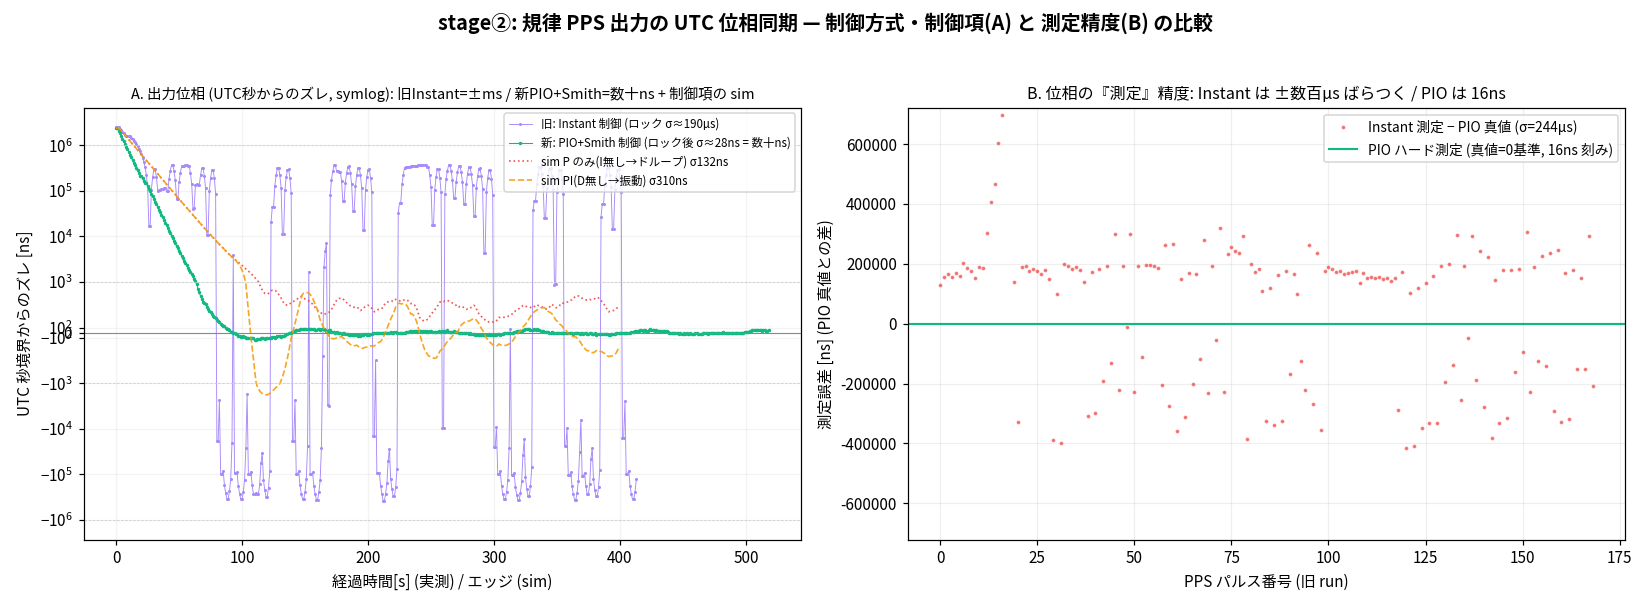
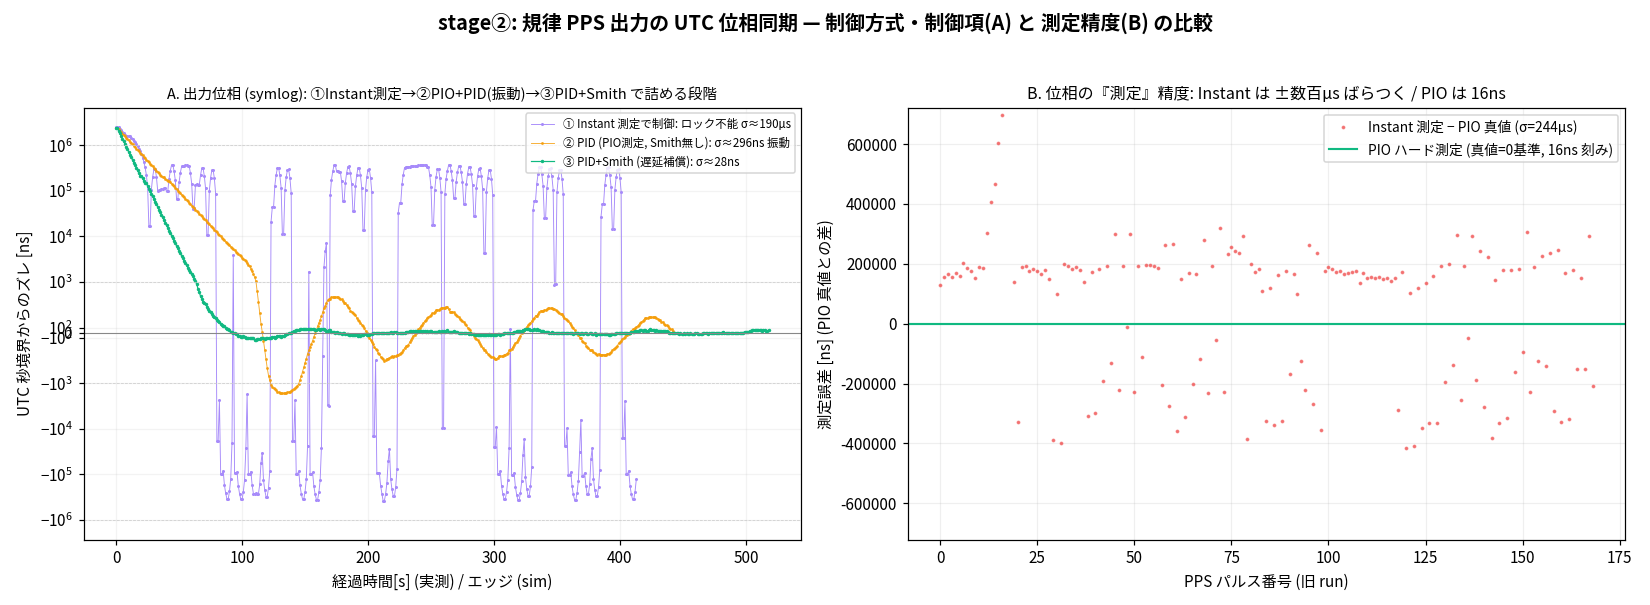
pico-gnss: compare.png を 3 段階に — Instant→PID(Smith無し,振動)→PID+Smith
ユーザー指摘「PID と PID+Smith の比較もすべき」。compare.png panel A を実機 3 段階に:
①Instant測定で制御=ロック不能(±190µs) ②PID(PIO測定,Smith無し)=ループ遅れで振動(σ~300ns)
③PID+Smith(遅延補償)=σ~35ns。測定と制御の両方の効きが 1 枚で見える。sim 重畳は外し
tune.png に委ねた。pid-capture.log を②として読み込み (plot_compare.py 第5引数)。

diff --git a/webapp/plot_compare.py b/webapp/plot_compare.py
@@ -32,6 +32,8 @@ out = sys.argv[3] if len(sys.argv) > 3 else "compare.png"
 import os
 _here = os.path.dirname(os.path.abspath(__file__))
 exp_path = sys.argv[4] if len(sys.argv) > 4 else os.path.join(_here, "../report/exp-capture.log")
+# PID(Smith 無し)=リミットサイクルの実機ログ。Instant→PID→PID+Smith の 3 段階を A に重ねる用。
+mid_path = sys.argv[5] if len(sys.argv) > 5 else os.path.join(_here, "../report/pid-capture.log")
 
 RE = re.compile(r"PPSGEN count=\d+ interval_ns=\d+ dev_ns=-?\d+ phase_ns=(-?\d+) hwphase_ns=(-?\d+)")
 TS = re.compile(r"(?:^|\s)(\d+\.\d+) \[")
@@ -115,32 +117,27 @@ def clip(t, hw):  # グリッチ (>3ms) を表示から除外
     return t[m], hw[m]
 
 
-# A: 出力位相 (PIO 真値 hwphase) 旧 vs 新。symlog で ms〜ns を 1 枚に。
+# A: 出力位相。測定(Instant→PIO) + 制御(PID→PID+Smith) の 3 段階を実データで symlog 重畳。
 a = ax[0]
 if len(ohw):
     ct, ch = clip(ot, ohw)
-    a.plot(ct, ch, ".-", color="#a78bfa", ms=2, lw=0.6, label=f"旧: Instant 制御 (ロック σ≈{locked_sigma(ohw, GLITCH)/1000:.0f}µs)")
+    a.plot(ct, ch, ".-", color="#a78bfa", ms=2, lw=0.6, label=f"① Instant 測定で制御: ロック不能 σ≈{locked_sigma(ohw, GLITCH)/1000:.0f}µs")
+try:  # ② PID (PIO 測定, Smith 無し) = ループ遅れでリミットサイクル
+    mt, _mph, mhw = parse(mid_path)
+    if len(mhw):
+        ct, ch = clip(mt, mhw)
+        a.plot(ct, ch, ".-", color="#f59e0b", ms=1.8, lw=0.6, alpha=0.85,
+               label=f"② PID (PIO測定, Smith無し): σ≈{locked_sigma(mhw, 50_000):.0f}ns 振動")
+except Exception as ex:
+    print(f"mid skip: {ex}")
 if len(nhw):
     ct, ch = clip(nt, nhw)
-    a.plot(ct, ch, ".-", color="#10b981", ms=2.5, lw=0.7, label=f"新: PIO+Smith 制御 (ロック後 σ≈{locked_sigma(nhw, 50_000):.0f}ns = 数十ns)")
-# 制御項の効果を同じ軸に重ねる (オフライン sim, 初期2µsオフセットから): P=ドループ / PI=振動 / PID=減衰。
-terms = None
-try:
-    terms = sim_terms(exp_path)
-except Exception as ex:
-    print(f"terms skip: {ex}")
-if terms:
-    # 新(実測)=PID なので、sim は参照として P(I無し=ドループ) と PI(D無し=振動) を重ねる。
-    styles = {"P のみ": ("#ef4444", ":", "sim P のみ(I無し→ドループ)"),
-              "PI": ("#f59e0b", "--", "sim PI(D無し→振動)")}
-    for name, (col, ls, lab) in styles.items():
-        p = terms[name]; s = p[len(p) // 2:]; sg = np.std(s[np.abs(s) < 50000])
-        a.plot(np.arange(len(p)), p, ls, color=col, lw=1.1, alpha=0.9, label=f"{lab} σ{sg:.0f}ns")
+    a.plot(ct, ch, ".-", color="#10b981", ms=2.5, lw=0.8, label=f"③ PID+Smith (遅延補償): σ≈{locked_sigma(nhw, 50_000):.0f}ns")
 a.set_yscale("symlog", linthresh=1000)
 for v in (1e6, -1e6, 1e3, -1e3):
     a.axhline(v, color="#ccc", lw=0.5, ls="--")
 a.axhline(0, color="#888", lw=0.7)
-a.set_title("A. 出力位相 (UTC秒からのズレ, symlog): 旧Instant=±ms / 新PIO+Smith=数十ns + 制御項の sim", fontsize=9.5)
+a.set_title("A. 出力位相 (symlog): ①Instant測定→②PIO+PID(振動)→③PID+Smith で詰める段階", fontsize=9.5)
 a.set_xlabel("経過時間[s] (実測) / エッジ (sim)"); a.set_ylabel("UTC 秒境界からのズレ [ns]")
 a.legend(fontsize=7.5, loc="upper right"); a.grid(True, which="both", alpha=0.15)
 

diff --git a/report/REPORT.md b/report/REPORT.md
@@ -44,9 +44,10 @@ host テスト 35 green。
 
 位相を Instant でなく **PIO の生カウンタ差**で測る (出力エッジ vs GPS PPS、両 SM が同じ clk_sys)。
 旧(Instant 制御) と 新(PIO ハード制御) を同じ指標 (PIO 真値 `hwphase`) で比較:
-- **A. 出力位相**: 旧 = ±190µs をさまよう / 新(=PIO+Smith 制御) = 取得後 **UTC 秒 0 を中心に σ~35ns で
-  張り付く** (PIO 測定が tight ロックを可能にし、さらに下記 Smith 予測子で詰めた最終形)。同じ軸に制御項の
-  sim も重畳: **P のみ=ドループ(+550ns)**、**PI=D 無しで振動**(→ 制御項の詳細は tune.png / smith.png)。
+- **A. 出力位相**: 詰める 3 段階を実データで重畳 — **① Instant 測定で制御 = ロック不能 (±190µs)** /
+  **② PID (PIO 測定, Smith 無し) = ループ遅れで振動 (σ~300ns)** / **③ PID+Smith (遅延補償) = σ~35ns で
+  UTC 秒に貼り付く**。測定(Instant→PIO)と制御(PID→PID+Smith)の両方が効いているのが見える
+  (制御項の詳細は tune.png、Smith の before/after は smith.png)。
 - **B. 測定精度**: 同じ出力を両方で測った差 = Instant の測定ノイズ **σ~360µs** (ウェイクアップ遅延) vs
   PIO **16ns** (~2万×)。この測定差が出力をどこまで締められるかを決める = stage ② の肝。
 
